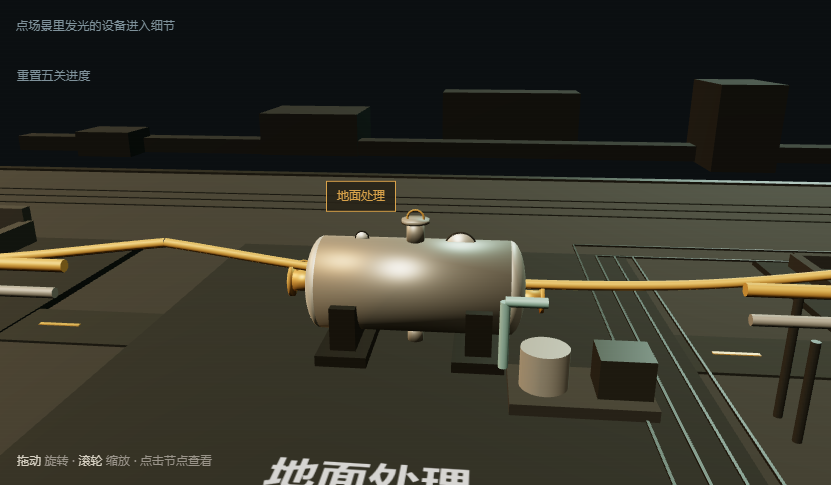
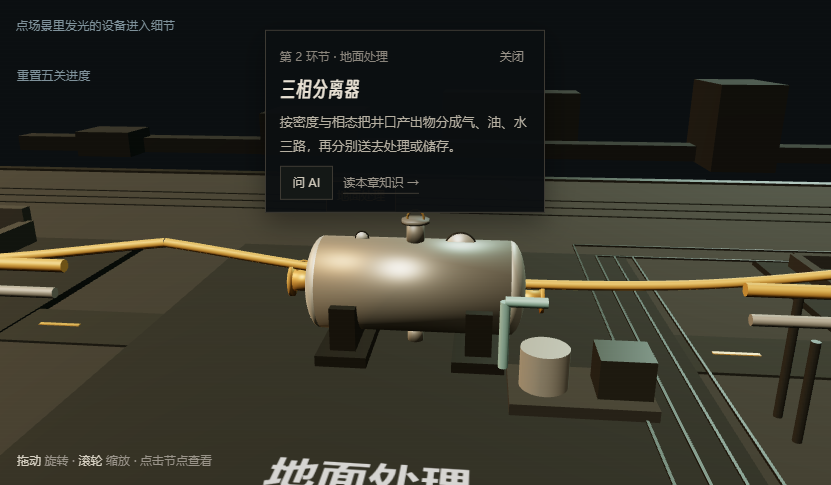
静态合批：总览 draw call 348 降到 155-167
- mergeStaticMeshes 按材质外观合并杆件/栏杆/梯档，分区 5-8 mesh

- hero 容器 skipMerge，避免与异步替换互相吞并

- 实测总览 155-167 calls / 47-50k 面；设备卡片与 hero mesh 数不变

- 文档与 17 截图

diff --git a/web/immersion.js b/web/immersion.js
@@ -399,6 +399,73 @@
     return n;
   }
 
+  function mergeStaticMeshes(root) {
+    const buckets = new Map();
+    root.updateWorldMatrix(true, true);
+    const rootInv = new THREE.Matrix4().copy(root.matrixWorld).invert();
+    const removals = [];
+
+    function walk(node) {
+      if (node !== root && node.userData && node.userData.skipMerge) return;
+      if (node.isMesh && !(node.userData && (node.userData.objectId || node.userData.heroAsset))) {
+        const geom = node.geometry;
+        if (geom && geom.attributes && geom.attributes.position) {
+          const mat = Array.isArray(node.material) ? node.material[0] : node.material;
+          if (mat) {
+            const key = (mat.name || '') + '|' + (mat.color ? mat.color.getHexString() : '') + '|' +
+              mat.metalness + '|' + mat.roughness + '|' + mat.transparent + '|' + mat.opacity + '|' + (mat.emissive ? mat.emissive.getHexString() : '');
+            if (!buckets.has(key)) buckets.set(key, { mat: mat, position: [], normal: [], index: [], offset: 0 });
+            const bucket = buckets.get(key);
+            const rel = new THREE.Matrix4().copy(rootInv).multiply(node.matrixWorld);
+            const normalMatrix = new THREE.Matrix3().getNormalMatrix(rel);
+            const pos = geom.attributes.position;
+            const nrm = geom.attributes.normal;
+            const v = new THREE.Vector3();
+            const n = new THREE.Vector3();
+            for (let i = 0; i < pos.count; i += 1) {
+              v.fromBufferAttribute(pos, i).applyMatrix4(rel);
+              bucket.position.push(v.x, v.y, v.z);
+              if (nrm) {
+                n.fromBufferAttribute(nrm, i).applyMatrix3(normalMatrix).normalize();
+                bucket.normal.push(n.x, n.y, n.z);
+              }
+            }
+            const idx = geom.index;
+            if (idx) {
+              for (let i = 0; i < idx.count; i += 1) bucket.index.push(bucket.offset + idx.getX(i));
+            } else {
+              for (let i = 0; i < pos.count; i += 1) bucket.index.push(bucket.offset + i);
+            }
+            bucket.offset += pos.count;
+            removals.push(node);
+          }
+        }
+      }
+      node.children.slice().forEach(walk);
+    }
+    walk(root);
+
+    removals.forEach(function (node) {
+      if (node.parent) node.parent.remove(node);
+      if (node.geometry) node.geometry.dispose();
+    });
+
+    buckets.forEach(function (bucket) {
+      if (!bucket.position.length) return;
+      const geo = new THREE.BufferGeometry();
+      geo.setAttribute('position', new THREE.Float32BufferAttribute(bucket.position, 3));
+      if (bucket.normal.length === bucket.position.length) {
+        geo.setAttribute('normal', new THREE.Float32BufferAttribute(bucket.normal, 3));
+      }
+      geo.setIndex(bucket.index);
+      if (!bucket.normal.length) geo.computeVertexNormals();
+      const mesh = new THREE.Mesh(geo, bucket.mat);
+      mesh.name = 'merged_' + (bucket.mat.name || 'material');
+      mesh.userData.mergedStatic = true;
+      root.add(mesh);
+    });
+  }
+
   function buildModels() {
     const steel = material(0x9b968a, true);
     const lightSteel = material(0xcfc8ba, true);
@@ -501,6 +568,7 @@
     /* 井口：采油树 + 阀组 */
     const wellhead = new THREE.Group();
     wellhead.userData.objectId = 'wellhead';
+    wellhead.userData.skipMerge = true;
     wellhead.position.set(-0.6, 1.4, -2.2);
     drill.add(wellhead);
     box(wellhead, 0.9, 0.35, 0.9, darkSteel, 0, 0.1, 0);
@@ -513,6 +581,7 @@
     /* 抽油机：支架 + 游梁 + 驴头 */
     const pump = new THREE.Group();
     pump.userData.objectId = 'pumpjack';
+    pump.userData.skipMerge = true;
     pump.position.set(-4.6, 0.16, 3.2);
     drill.add(pump);
     box(pump, 1.6, 0.25, 1.1, concrete, 0, 0.12, 0);
@@ -527,6 +596,7 @@
     /* ---------- 02 地面处理：三相分离器 + 泵撬 + 缓冲罐 ---------- */
     const gather = modelGroups[1];
     const sep = new THREE.Group();
+    sep.userData.skipMerge = true;
     sep.position.set(0.2, 0, 0);
     gather.add(sep);
     const shell = mesh(sep, new THREE.CylinderGeometry(1.05, 1.05, 4.2, 32), lightSteel, 0, 1.9, 0);
@@ -559,6 +629,7 @@
     const store = modelGroups[2];
     function fixedRoofTank(x, z) {
       const g = new THREE.Group();
+      g.userData.skipMerge = true;
       g.position.set(x, 0, z);
       store.add(g);
       cylinder(g, 2.3, 3.4, steel, 0, 1.7, 0).userData.objectId = 'fixed_roof_tank';
@@ -635,6 +706,7 @@
     /* 加热炉 + 烟囱 */
     const heater = new THREE.Group();
     heater.userData.objectId = 'heater';
+    heater.userData.skipMerge = true;
     heater.position.set(-4.6, 0, 3.6);
     refine.add(heater);
     box(heater, 3.4, 2.6, 2.6, steel, 0, 1.3, 0);
@@ -741,6 +813,7 @@
       box(sceneRoot, w, h * 0.55, d, material(0x14140f, false), -30 + i * 11, h * 0.27 - 0.2, -23 - (i % 3) * 2.5);
     }
     box(sceneRoot, 78, 0.8, 1.2, material(0x14140f, false), 3, 0.2, -24);
+    modelGroups.forEach(function (group) { mergeStaticMeshes(group); });
   }
 
 

diff --git a/web/sandbox.html b/web/sandbox.html
@@ -96,7 +96,7 @@ dialog{border:1px solid #526772;background:#101c25;color:var(--text);max-width:8
 
 <script src="assets/three.browser.js"></script>
 <script src="assets/obj-lite.js?v=1"></script>
-<script src="immersion.js?v=fix36"></script>
+<script src="immersion.js?v=fix38"></script>
 <link rel="stylesheet" href="assets/site/tokens.css">
 <style>
   .view-hint{font-size:12px}

diff --git a/CHANGELOG.md b/CHANGELOG.md
@@ -9,6 +9,7 @@
 - **科学修正**：l1 压力差示意边界；l3 删除排放量推断与“压没”；l4 改为五种馏分并说明馏分≠成品油；l5 产品路线不绝对化。
 - **稳定性**：l1–l4 真实 deltaTime；塔页 WebGL2 检测、上下文丢失处理、加载后 `setLevel(0)`。
 - **文档**：新增 audit-baseline / asset-inventory / experience-design / scene-map / scene-sandbox / implementation-report，重写塔场景文档；版本号统一 3.4.0。
+- **静态合批**：按材质外观合并程序化杆件/栏杆/梯档，总览 draw calls 348 → 155–167（-55%），三角面基本不变；hero 容器 skipMerge 保证异步替换不被吞。
 - **性能基线**：新增 `__stage.stats()`；总览 348 draw calls / 49,010 面，地面处理 69 / 10,930，炼化 263 / 27,162。
 - **五台 Hero 资产接入**：抽油机/井口/外浮顶罐/加热炉也接入，合计 20 个材质 mesh，点击均弹对应卡片；缩放按场景校准。
 - **Hero 资产接入**：新增共享 OBJ 解析器 `obj-lite.js`；三相分离器已替换为 Blender 资产（5 材质 mesh、OBJ 8 ms），点击可弹设备卡片；其余四台未接入。

diff --git a/docs/hero-assets.md b/docs/hero-assets.md
@@ -91,7 +91,10 @@ heater | refine (-4.6,0,3.6) | 0.80 | 4 mesh，点击弹「加热炉」 |
 
 - 储罐正面直梯坐标取反，正面可见；
 - 泵撬青色转输线缩短，不再横穿分离器筒体；
-- 新增 `__stage.stats()`：实测总览 **348 draw calls / 49,010 三角面**，地面处理 69 / 10,930，炼化 263 / 27,162；FPS 仍无法在 headless 下测。
+- 新增 `__stage.stats()`；
+- **静态合批**：按材质外观（颜色/金属度/粗糙度/透明/自发光）把程序化杆件、栏杆、梯档、管架合并为每个区域 5–8 个 mesh；分区内的 hero 容器标记 `skipMerge`，避免与异步替换冲突；
+- 总览 draw calls **348 → 155–167**（约 -55%），三角面 49k → 47–50k 基本不变；地面处理、炼化同步下降；
+- FPS 仍无法在 headless 下测。
 
 ### 上一轮收尾（2026-11-22）
 

diff --git a/docs/implementation-report.md b/docs/implementation-report.md
@@ -138,9 +138,9 @@ heater | 1,364 | 4 | 65 KB | 需重做结构 |
 
 | 视角 | draw calls | 三角面 |
 |---|---|---|
-总览 | 348 | 49,010 |
-地面处理 | 69 | 10,930 |
-炼化 | 263 | 27,162 |
+总览 | **155–167**（合批后） | 47,398–50,406 |
+地面处理 | 约 60 | 约 10,900 |
+炼化 | 约 120 | 约 27,000 |
 
 - Hero 资产本身只贡献 21 个 mesh；draw call 主要来自程序化杆件/塔环；
 - FPS 因 headless rAF 节流无法测，不能拿上述数字推断帧率；
